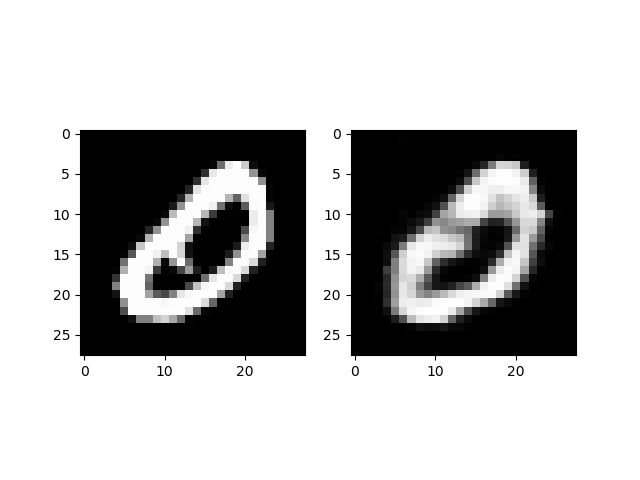
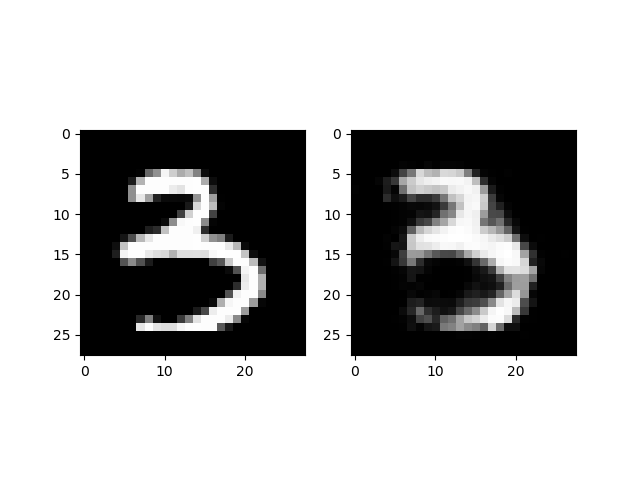
Finished the report

Changed region(s): [[0.5938, 0.3125, 0.875, 0.6875], [0.1562, 0.3125, 0.4375, 0.6875]]

diff --git a/rbm.py b/rbm.py
@@ -20,7 +20,6 @@ def new_map(func, tensor):
 
 def new_compare(func, tensor1, tensor2):
     if type(tensor1) != np.ndarray:
-        # import pdb;pdb.set_trace()
         return func(tensor1, tensor2)
 
     ret = []
@@ -142,7 +141,6 @@ if __name__ == '__main__':
     
     num_layers = args.hidden_layer
     lr = args.learning_rate
-    import pdb;pdb.set_trace()
     # load mnist dataset
     mnist = np.load('mnist_bin.npy')  # 60000x784
     n_imgs, img_size = mnist.shape

diff --git a/README.md b/README.md
@@ -1,1 +1,199 @@
-# NaiveRBM
+# Restricted Boltzmann Machine
+
+## Introduction of RBM
+
+Restricted Boltzmann Machine is a model based on Boltzmann machine。 Since the complexity of BN model, it can not reduce to the balance state in the reasonable time, so we added some constrains on the BN in the practice, then we have RBM.
+
+![屏幕快照 2018-12-20 下午9.35.43](/Users/hashibami/Desktop/屏幕快照 2018-12-20 下午9.35.43.png)
+
+In general, RBM is bipartial undirected model, as shown in the picture below. The pic described a RBM with 3 hidden nodes and 4 visual nodes, and each hidden nodes fully connects with each visual nodes, and vice versa. at the first glimpse, the RBM is similar to the 2-layer full connected neural network. In the next part, we will formalize the model in the mathematical way.
+
+
+
+## Model Definition
+
+Suppose there is a RBM with m visible variables and n hidden variables, so we can define the paramter of the RBM:
+
+- visible vector $$ v \in \{ 0, 1 \}^{m} $$
+- hidden vector $$h \in \{0, 1\}^{n}$$
+- Weight matrix $$W \in R^{m \times n} $$
+
+- visible bias $$ a \in R^{m} $$
+- hidden bias $$b \in {R}^{n} $$
+
+Given a dataset $$ \{ x_i  \}^N_i $$, where $x_i$ is a vector of m dimension. In our task
+
+## CD Algorithm
+
+The goal of the CD algorithm is to learn the paramter of the RBM, the detailed is followed:
+
+Given the input vector as the visible input $$ {v_0} $$, and we provided 2 formula to calculate the probability of generated vector
+
+p(**h** = 1| **v**) = $$\sigma (W^{T}v + b)$$ 						(1)
+
+p(**v** = 1 | **h**) =  $$\sigma ({Wh} + a)$$						(2)
+
+for i in 1……T epochs:
+
+	for j in 1.....N samples:
+
+  1.Compute the **hidden variable distribution** $$p(h_0 = 1 | v_0) $$ with (1) 
+
+2. Sample $$ h_0 $$ from $$ p(h_0 = 1 |v_0) $$ 
+
+3. Compute the visible variable distribution $$p(v_1 = 1| h_0)$$ with (2)
+
+4. Sample reverse visible variable $$v_1$$ from $$p(v_1 = 1| h_0)$$
+
+5. Compute $$p(h_1 = 1| v_1) $$ with (1)
+6. Sample $$h_1$$ from $$p(h_1 = 1| v_1) $$
+
+7. Update W with W + $$\alpha (v_{0} h_{0}^{T} - v_{1}h_1^T)$$
+
+8. update a with a + $$ \alpha (v_{0} - v_{1} )$$
+
+9. Update b with $$b + \alpha(h_{0} - h_{1})$$
+
+## Gibbs Sampling
+
+1. Define the initial visible input $$v_0$$
+
+   for t in 0....T times
+
+   	Compute hidden variable distribution $$p(h_{t} = 1 | v_{t}) $$ with (1) 
+	
+   	Sample $$ h_0 $$ from $$ p(h_{t} = 1 |v_{t}) $$
+	
+   	Compute visible variable distribution   $$p(v_{t+1} = 1| h_{t})$$ with (2)
+	
+   	Sample $$v_t$$ from  $$p(v_{t+1} = 1| h_t)$$
+	
+   	return $$v_{t+1}$$ and $$ h_{t}$$	
+
+## Experiment
+
+The given dataset in our task is mnist dataset, which contains 60000 images of shape 28*28, indicating the manually written digit from 0 to 9. We flatten the data into 60000 * 784 format, so the hidden layer's size is 784, while the visible layer is uncertain, and the learning rate variable is also uncertain. After training the RBM based on CD algorithm, we use the model to sample the data, than we reshpae the output vector to 28*28 images.
+
+## Analysis & Conclusion
+
+To fit our model, we need to adjust our parameters to find the best one. Here are some examples and the outcomes of our analysis.
+
+#### Learning rate $\alpha$
+
+We adjust the learning rate ranging from 0.00001-0.1, we found that the best value to fit the model is 0.01
+
+#### The size of hidden layer
+
+The size of the hidden layer is adjustable, so we change it from 2 to 1000, adn we found that the best value is about 100. If the number of layers is small we can not generate the graph we wanted, while the number of layers is large, we need to spend more time for convegence of RBM.
+
+## Implementation		
+
+Based on the framework provided by the TA, we just need to fill in the blank function. We use numpy to provide the matrix multiple calculation. The detailed code can be found in the attachment.
+
+#### Argument learning
+
+```python
+parser = argparse.ArgumentParser()
+parser.add_argument('--hidden_layer', '-y', required=False, type=int, default=100)
+parser.add_argument('--learning_rate', '-l', required=False, type=float, default=0.01)
+args = parser.parse_args()
+```
+
+#### Util function
+
+To utilize the map function on high-dimensional data, we need to define some helper functions.
+
+```python
+def new_map(func, tensor):
+    if type(tensor) != np.ndarray:
+        return func(tensor) 
+    ret = []
+    for iter in tensor:
+        ret.append(new_map(func, iter))
+
+    return np.array(ret)
+```
+
+
+
+To validate our model implementation, we need to monitor the energy as time goes by.
+
+```python
+def _energy(self, visible, hidden):
+        return -np.inner(self.a.flatten(), visible.flatten()) - np.inner(self.b.flatten(), hidden.flatten()) \
+            -np.matmul(np.matmul(np.transpose(visible), self.W), hidden)
+
+```
+
+
+
+#### CD algorithm
+
+```python
+self.visible = data.reshape(-1, self.n_observe)
+        for epoch in range(max_epoch):
+            np.random.shuffle(data)
+            for v in data:
+                ## CD loss
+                v = v.reshape(-1, 1)
+                h_dist = new_map(sigmoid, \
+                    np.matmul(np.transpose(self.W), v) + self.b)
+
+                # h_sample = self._sample_binary(h_dist)
+                h_sample = h_dist
+                v_dist = new_map(sigmoid, \
+                    np.matmul(self.W, h_sample) + self.a)
+
+                # v_sample = self._sample_binary(v_dist)
+                v_sample = v_dist
+                h_dist2 = new_map(sigmoid, \
+                    np.matmul(np.transpose(self.W), v_sample) + self.b)
+                
+                # h_sample2 = self._sample_binary(h_dist2)
+                h_sample2 = h_dist2
+                ## Update weight
+                self.W += self.alpha * \
+                    (np.matmul(v, np.transpose(h_sample)) -
+                        np.matmul(v_sample, np.transpose(h_sample2)))
+
+                self.a += self.alpha * (v - v_sample)
+                self.b += self.alpha * (h_sample - h_sample2)
+
+            print (self._energy(v, h_sample2))
+
+            np.save("w.npy", W)
+            np.save("a.npy", a)
+            np.save("b.npy", b)
+```
+
+The implementation of CD is slightly different from the original version, there is no need to sample the data from probability of both hidden and visible layer, we just regard the probability as the sampled data. Then we use the `np.matmul()` and `np.transpose()` to finish all the matrix calculation. Pay attention that we save the parameters using `np.save()` , so that we can directly use it in the generation process.
+
+#### Sample data
+
+```python
+self.W = np.load("w.npy")
+self.a = np.load("a.npy").reshape(-1, 1)
+self.b = np.load("b.npy").reshape(-1, 1)
+for iter in range(iter_times):
+p_h = new_map(sigmoid, np.matmul(np.transpose(self.W), new_v) + self.b)
+
+# new_h = self._sample_binary(p_h)
+new_h = p_h
+p_v = new_map(sigmoid, np.matmul(self.W, new_h) + self.a)
+# new_v = self._sample_binary(p_v)
+new_v = p_v
+# import pdb;pdb.set_trace()
+return new_v
+```
+
+#### Generate new images
+
+```python
+plt.subplot(1,2,1)
+plt.imshow(raw_img.reshape((28, 28)), cmap="gray")
+plt.subplot(1,2,2)
+plt.imshow(gen_img.reshape((28, 28)), cmap="gray")
+plt.savefig("result.png")
+```
+
+![result](/Users/hashibami/Desktop/2018/深度学习/assignment/exercise/assign3/result.png)
